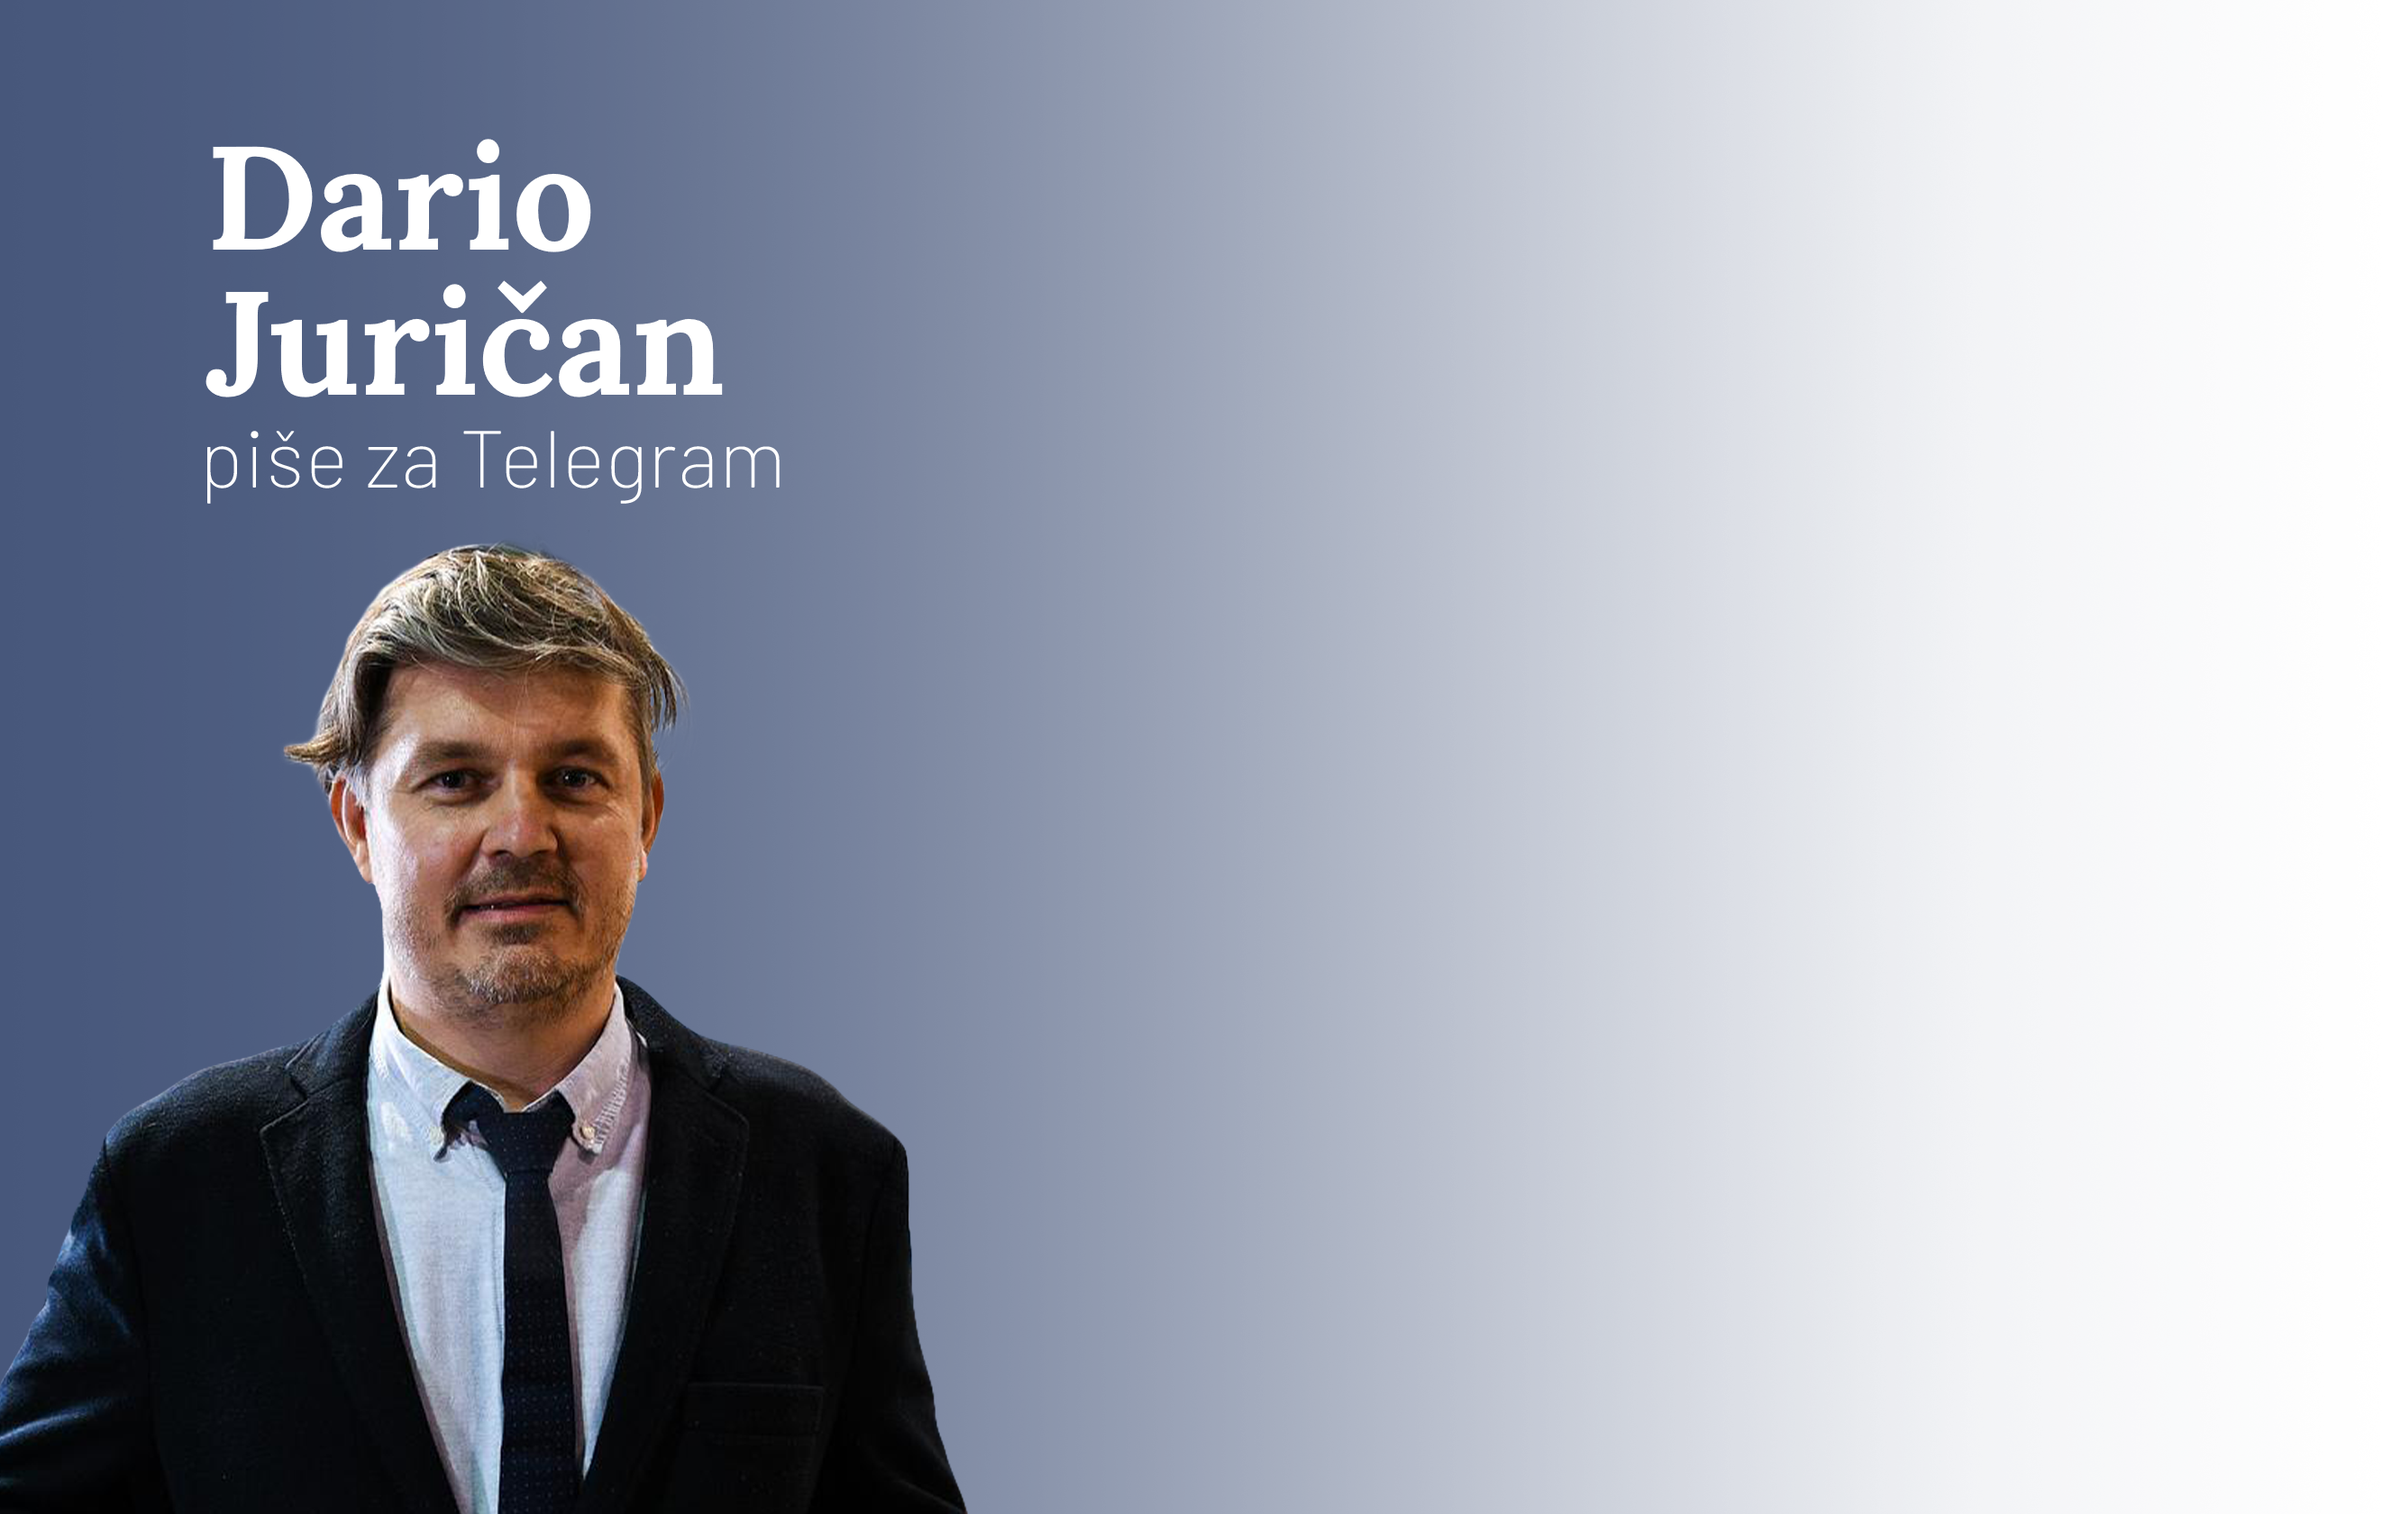
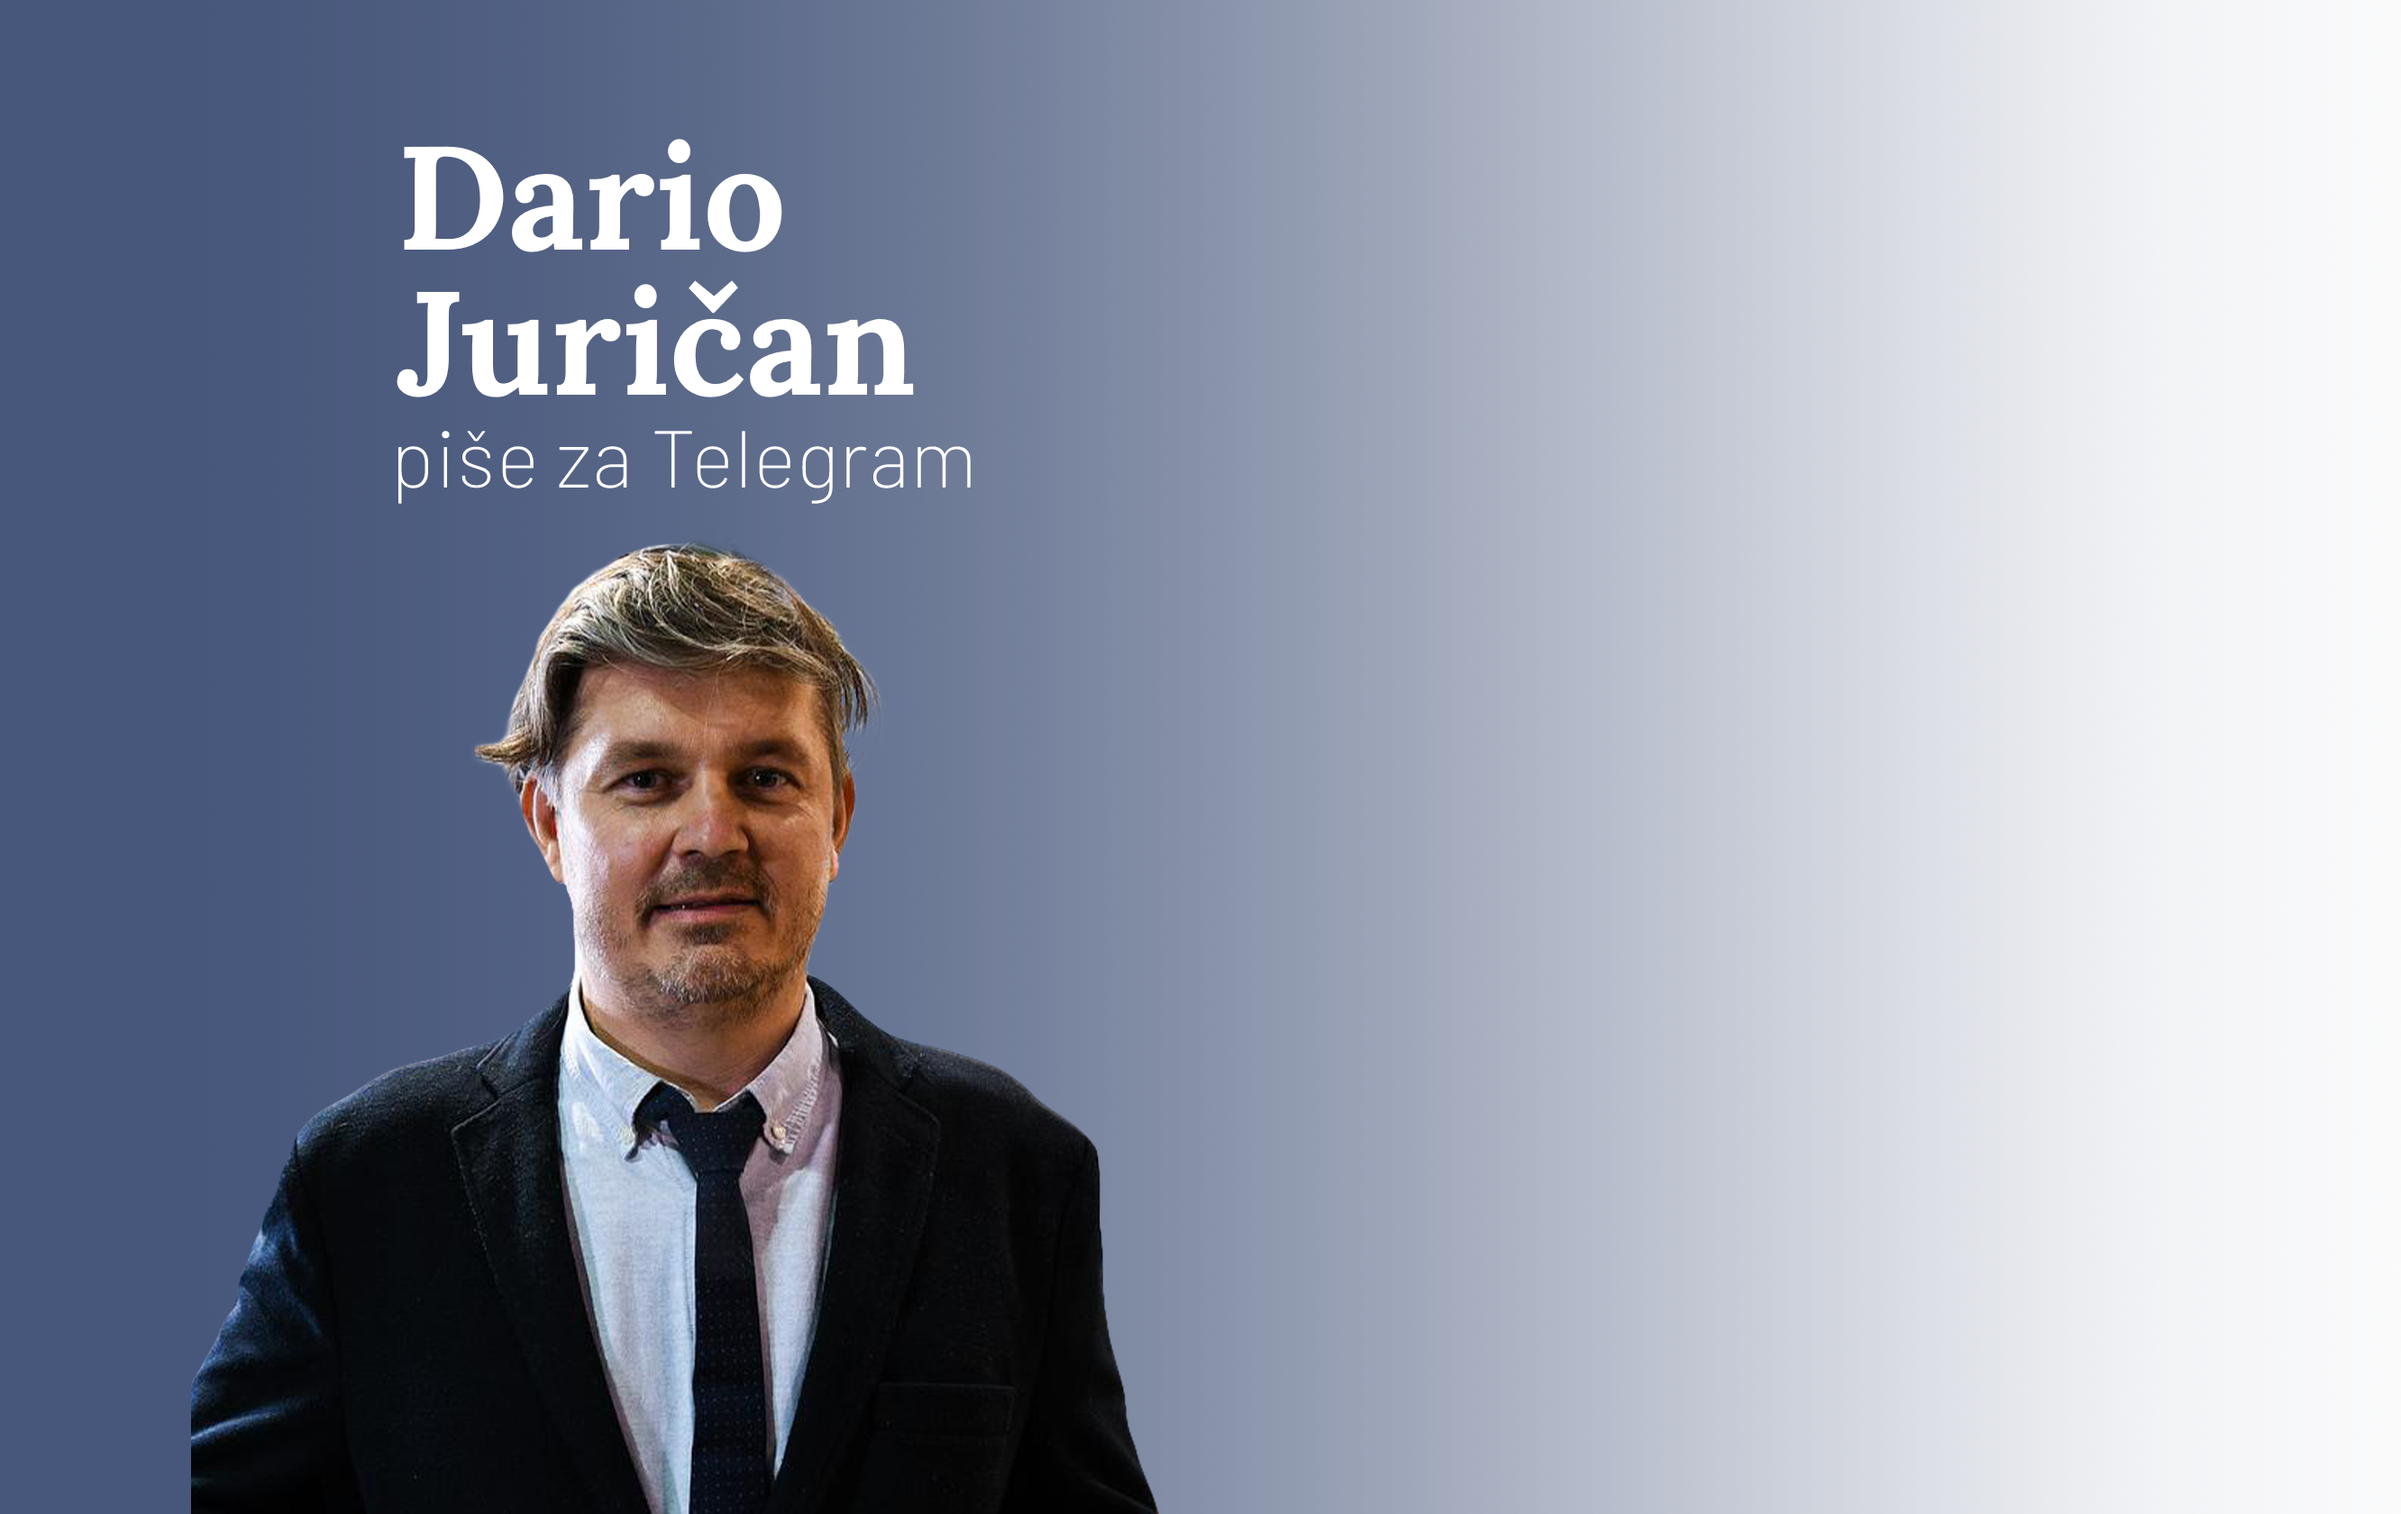
Update naslovne tool for new mobile thumbnail aspect ratio

Changed region(s): [[0.0, 0.0929, 0.4985, 1.0]]

diff --git a/assets/style.css b/assets/style.css
@@ -9386,19 +9386,19 @@ html.large-fontsize, .fontsize-previews .large-fontsize {
 }
 #generator-krug.gorelijevo {
     top: 100px;
-    left: 100px;
+    left: 200px;
 }
 #generator-krug.goredesno {
     top: 100px;
-    right: 100px;
+    right: 200px;
 }
 #generator-krug.doljelijevo {
     bottom: 100px;
-    left: 100px;
+    left: 200px;
 }
 #generator-krug.doljedesno {
     bottom: 100px;
-    right: 100px;
+    right: 200px;
 }
 .trebam-hitno .third {
     padding: 24px;
